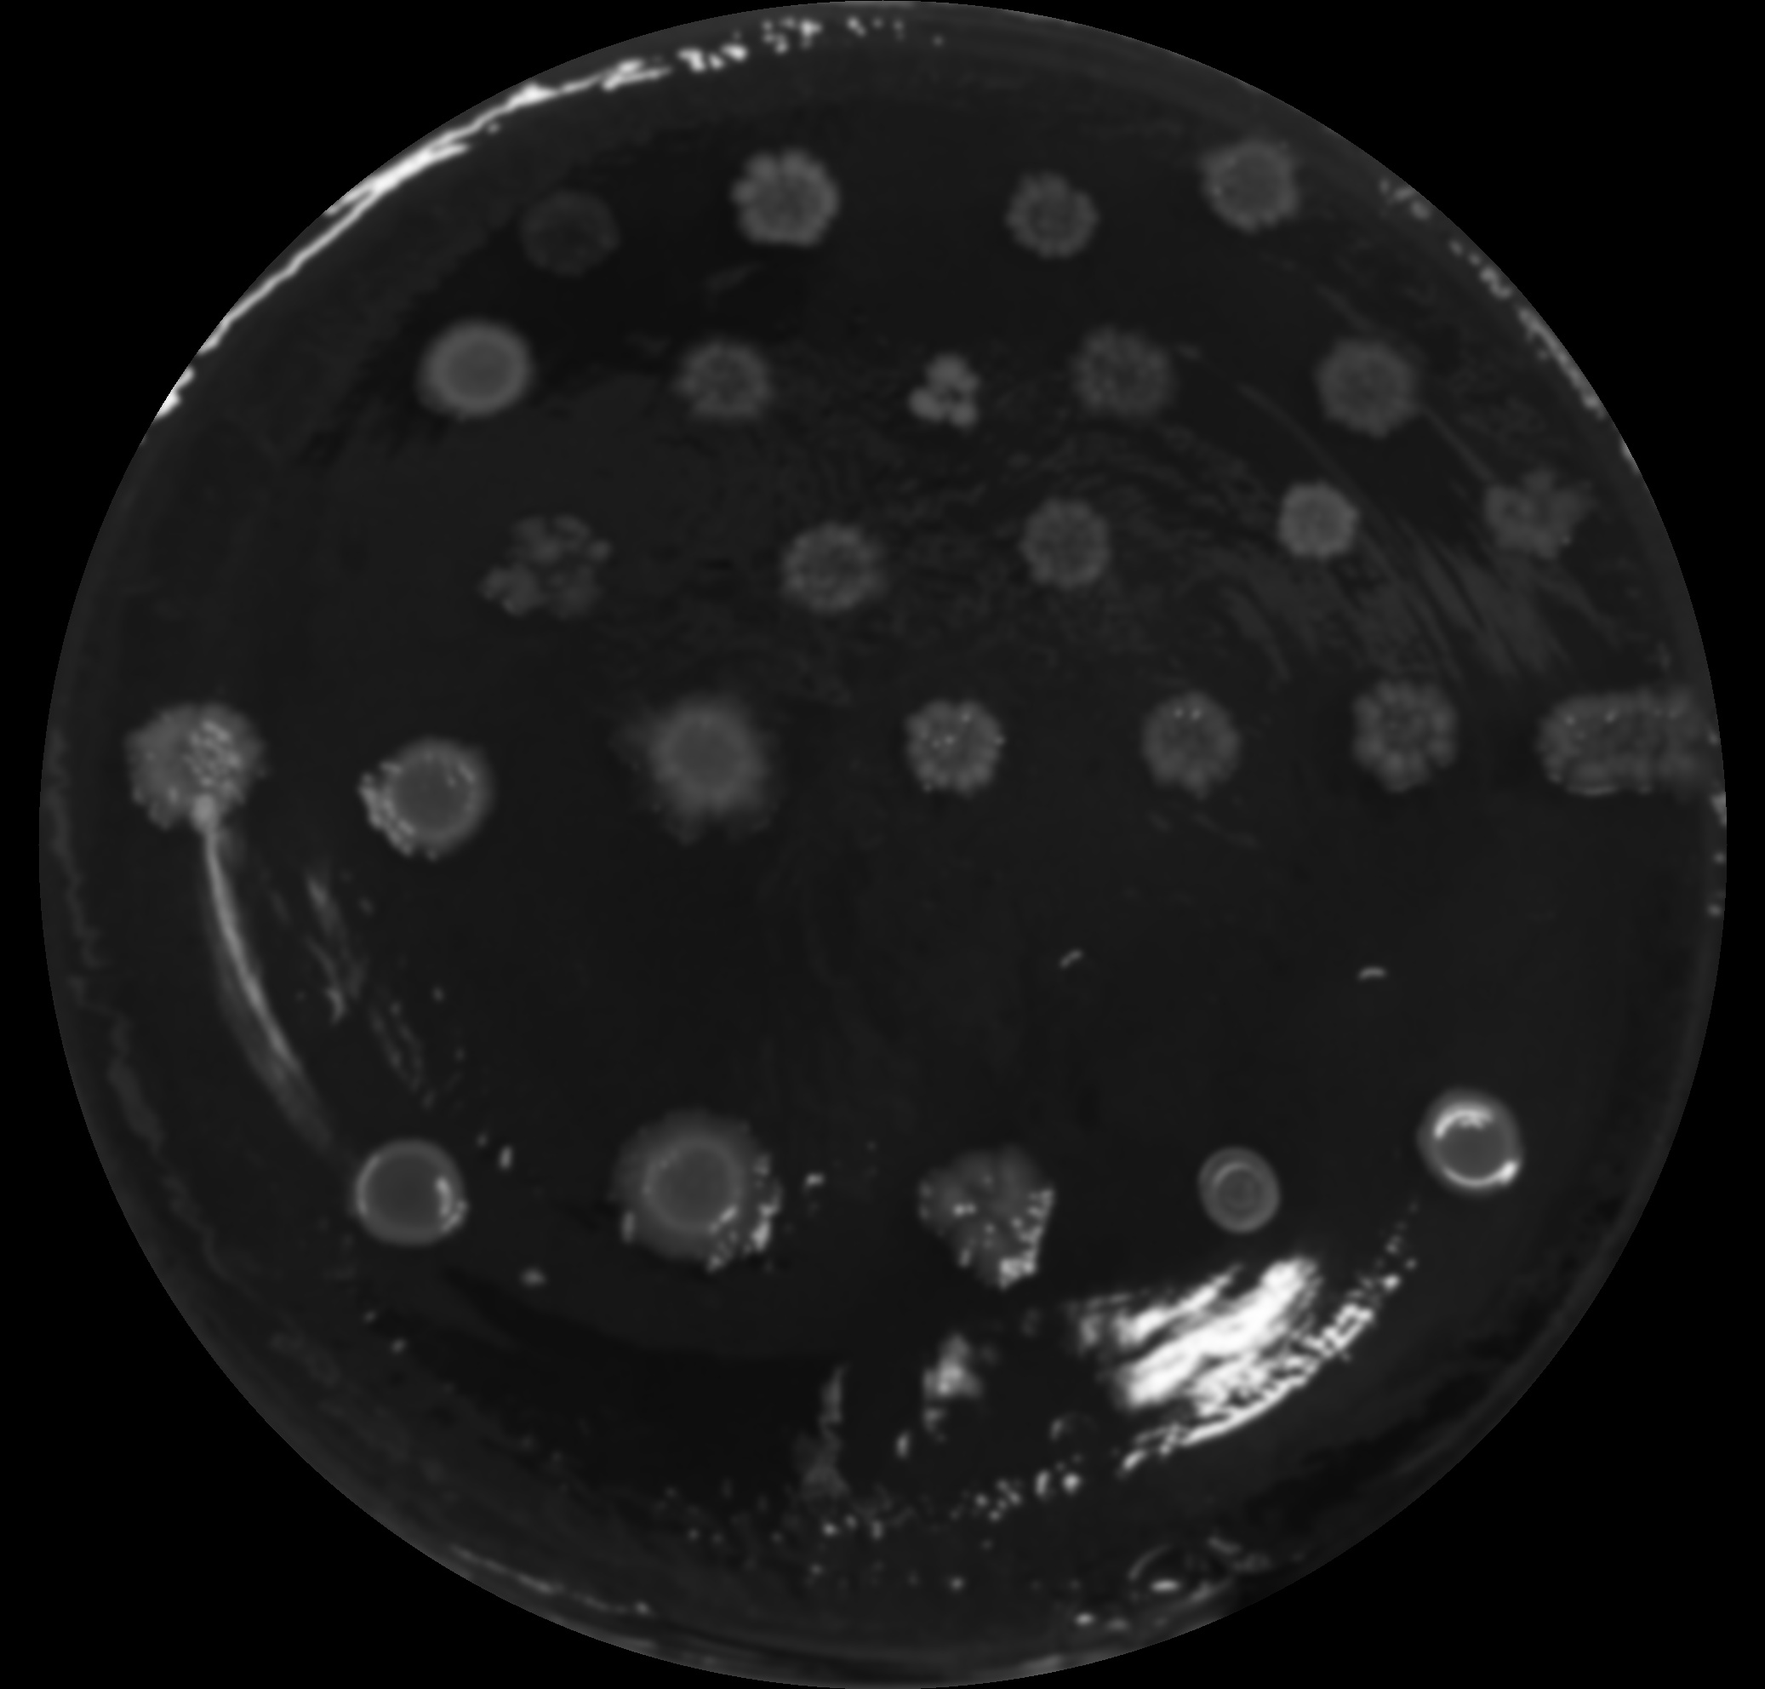
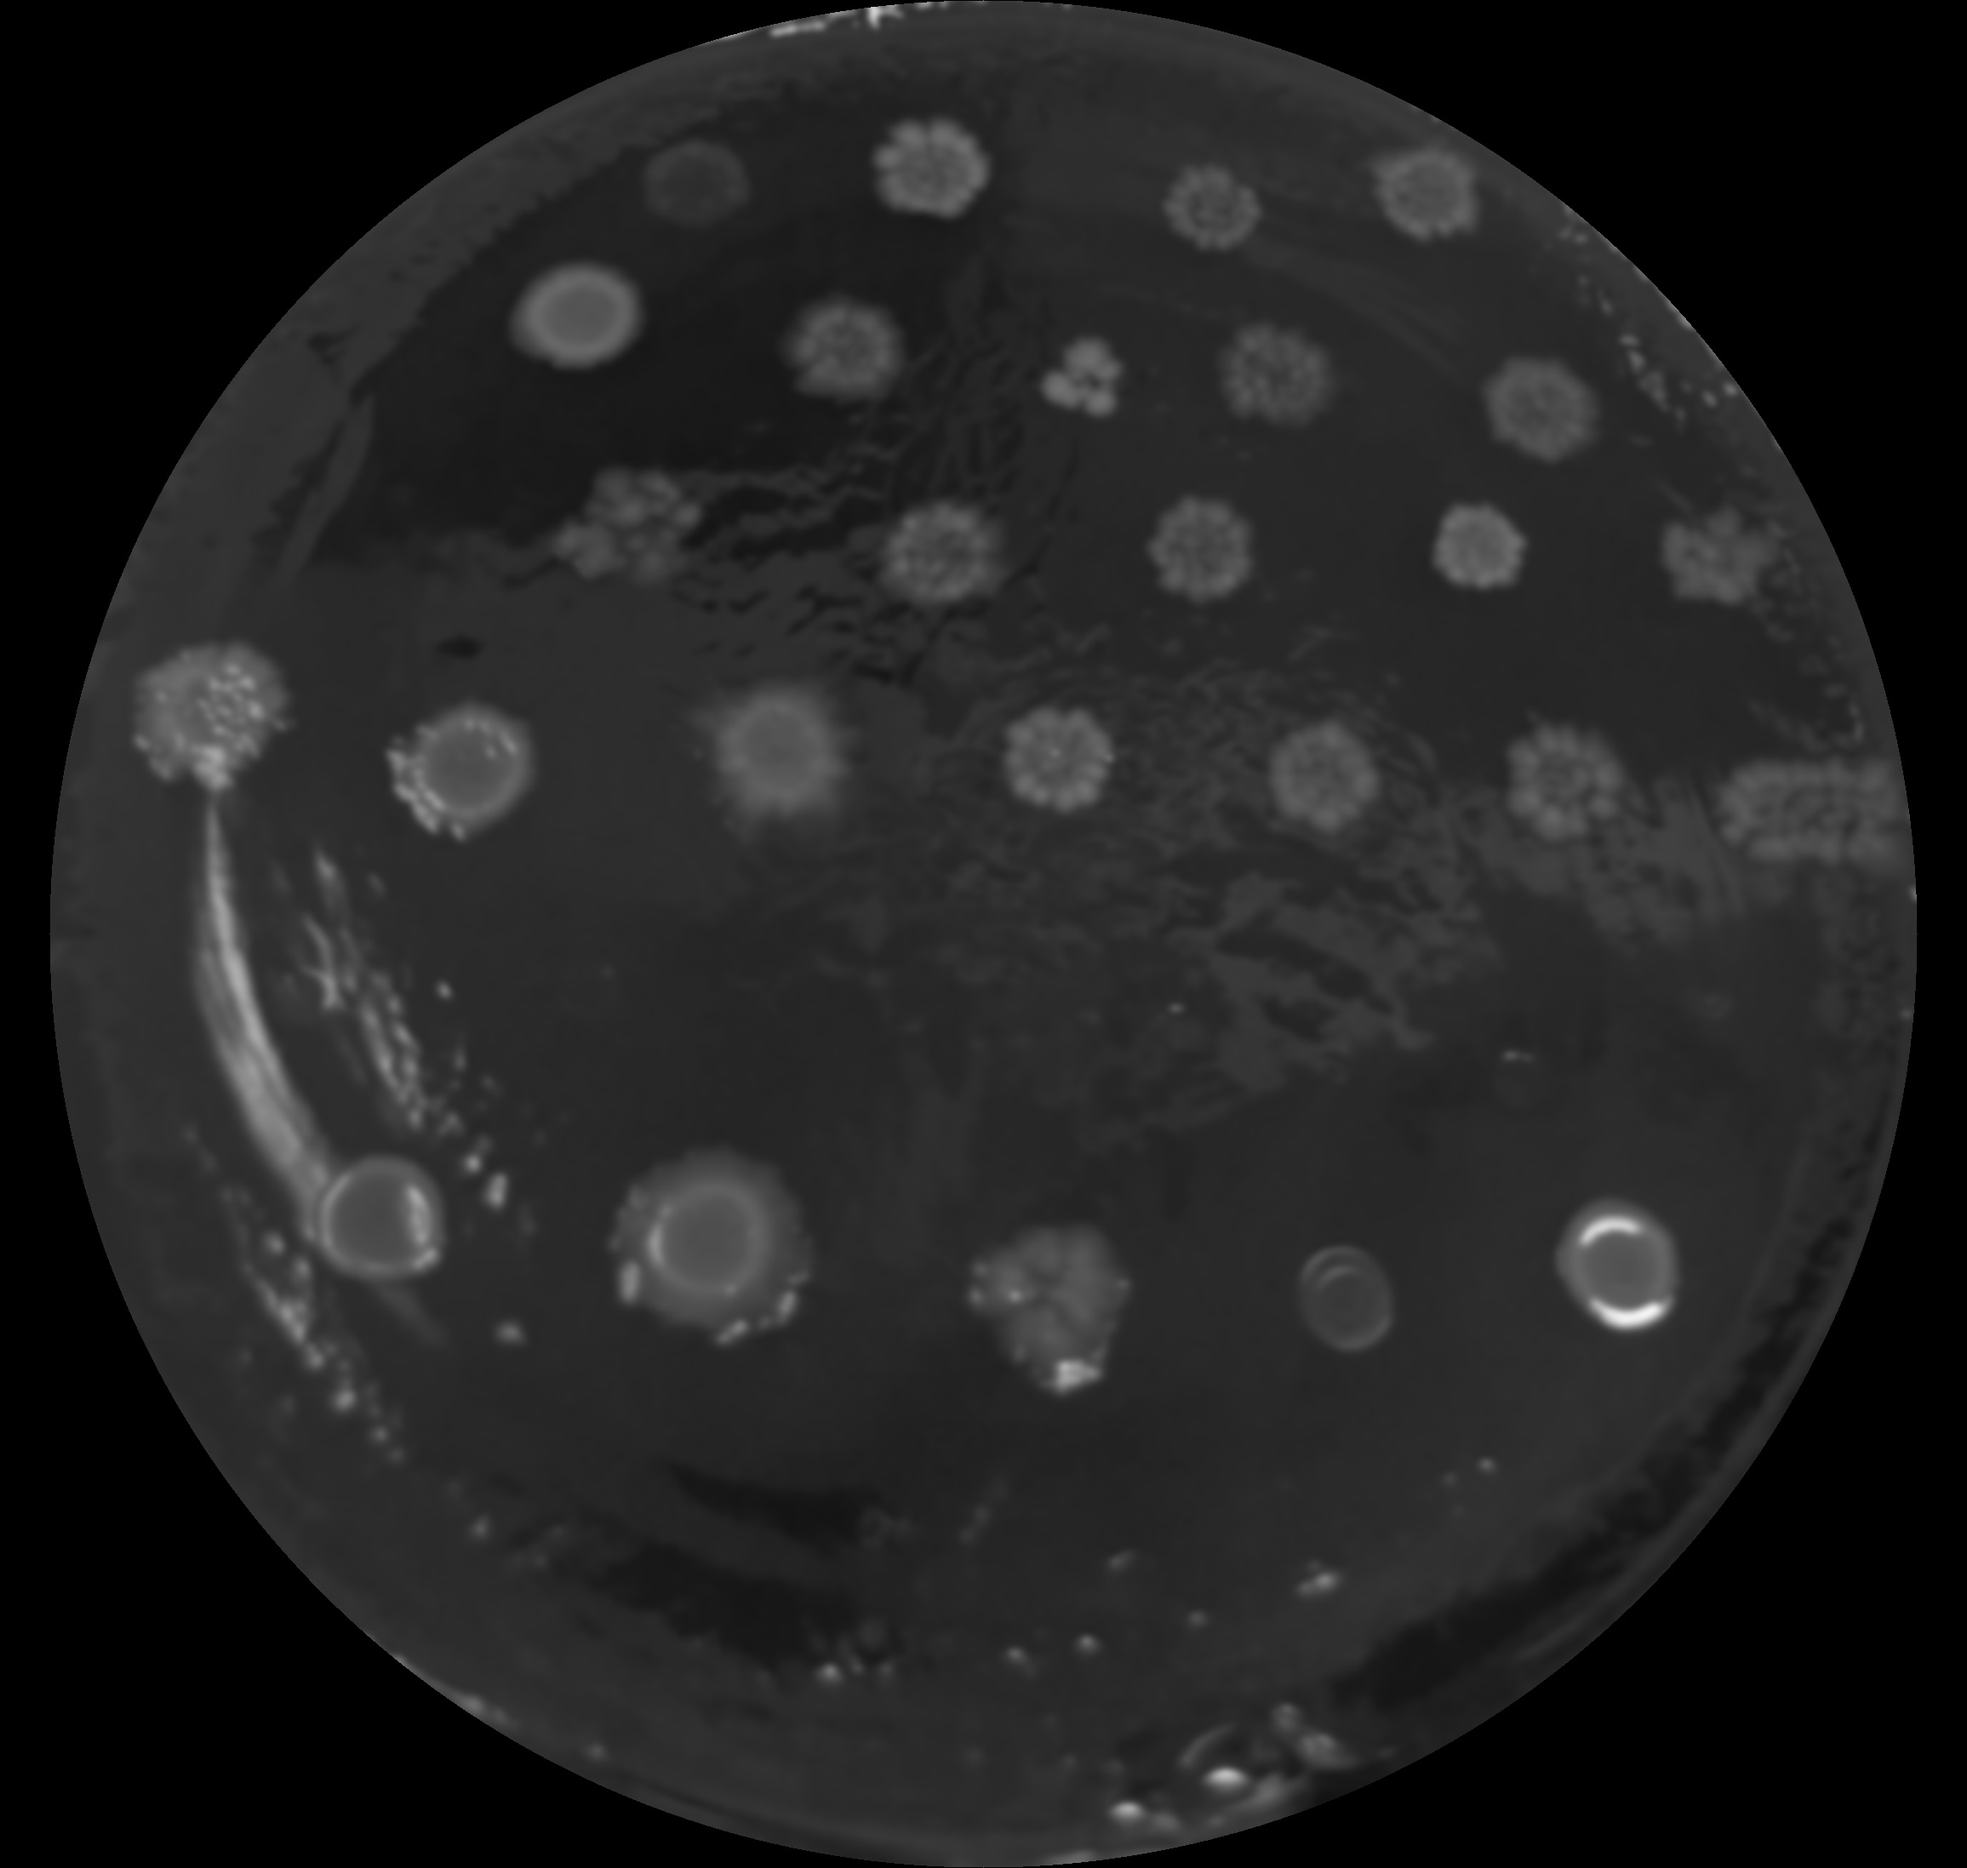
Blob Detection @ 0 Conc
Managed to detect all strains at zero concentration, can now use this to map out a grid and maybe be able to rotate some petri dishes.

diff --git a/DataCleaning/preprocessImage/detectBlobs.py b/DataCleaning/preprocessImage/detectBlobs.py
@@ -1,0 +1,34 @@
+import cv2
+import numpy as np
+
+
+def detect_and_draw_circles(image_path):
+    # Read the image
+    img = cv2.imread(image_path, cv2.IMREAD_GRAYSCALE)
+
+    # Apply adaptive histogram equalization
+    clahe = cv2.createCLAHE(clipLimit=1.5, tileGridSize=(9, 9))
+    adaptive_img = clahe.apply(img)
+
+    # Apply Hough Circle Transform to detect circles - GOLDEN PARAMS !! DETECTS ALL STRAINS !!
+    circles = cv2.HoughCircles(adaptive_img, cv2.HOUGH_GRADIENT, dp=1, minDist=168,
+                               param1=20, param2=15, minRadius=45, maxRadius=55)
+
+    # Ensure circles were detected
+    if circles is not None:
+        circles = np.uint16(np.around(circles))
+
+        # Draw circles on the original image
+        for circle in circles[0, :]:
+            center = (circle[0], circle[1])
+            radius = circle[2]
+            cv2.circle(img, center, radius, (255, 0, 0), 3)
+
+    else:
+        print("No circles detected.")
+
+    # Save the image with circles drawn
+    output_path = image_path.replace('.jpg', '_circles.jpg')
+    cv2.imwrite(output_path, img)
+
+    return img

diff --git a/DataCleaning/preprocessImage/preprocessImage.py b/DataCleaning/preprocessImage/preprocessImage.py
@@ -2,6 +2,7 @@ import os
 import cv2
 from cropImage import crop_image
 from maskImage import mask_circle
+from detectBlobs import detect_and_draw_circles
 
 # Path to the folder containing the input images
 input_folder = r"C:\TeamProject\Automated-Plate-Analysis\DataCleaning\RawImages\Clindamycin"
@@ -26,6 +27,9 @@ for filename in os.listdir(input_folder):
 
     # Save the standardised image to the output folder
     output_path = os.path.join(output_folder, filename)
-    cv2.imwrite(output_path, cropped_circle)  # Adjust 'cropped' if needed
+    cv2.imwrite(output_path, cropped_circle)
+
+    # Read in standardised, cropped, masked image into detectBlobs function
+    detect_blobs = detect_and_draw_circles(output_path)
 
 print("Standardization complete. Standardized images saved to", output_folder)
